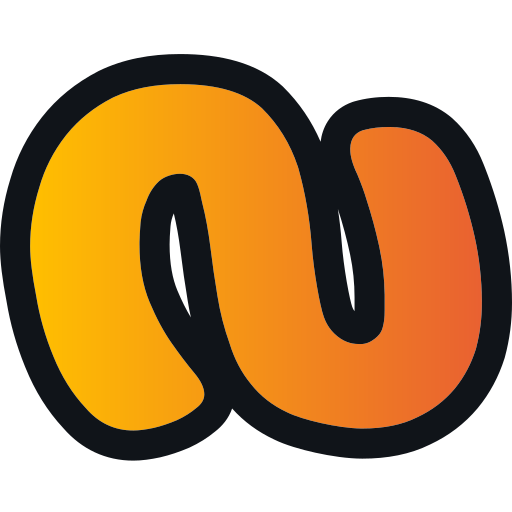
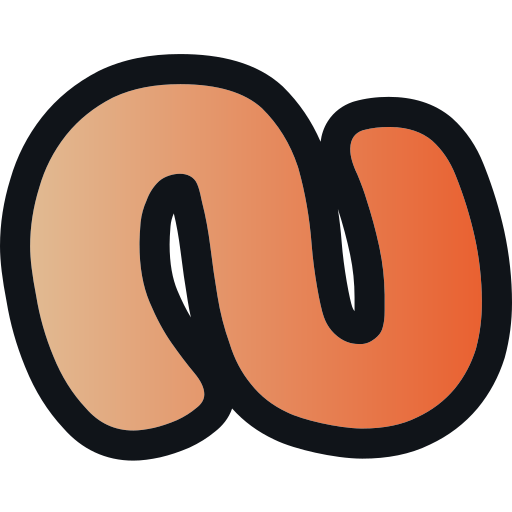
fix: refinements

diff --git a/src/styles/components/forms/search.css b/src/styles/components/forms/search.css
@@ -1,14 +1,8 @@
 search {
-  --search-rule: var(--color-divider);
-  --search-glyph: var(--color-glyph);
-  --search-interaction: var(--color-link);
-  --search-text: var(--color-text-0);
-  --search-placeholder: var(--color-text-2);
-
   display: flex;
   align-items: baseline;
   gap: var(--space-small);
-  border-bottom: var(--bw-default) solid var(--search-rule);
+  border-bottom: var(--bw-default) solid var(--color-divider);
   padding-bottom: var(--space-small);
   transition: border-color var(--duration-0) ease;
   width: 100%;
@@ -18,7 +12,7 @@ search .glyph {
   font-family: var(--monospace);
   font-variation-settings: var(--font-vars-code);
   font-weight: var(--fw-bold);
-  color: var(--search-glyph);
+  color: var(--color-accent);
   cursor: text;
   user-select: none;
 }
@@ -32,13 +26,13 @@ search input {
   font-family: var(--monospace);
   font-variation-settings: var(--font-vars-code);
   font-size: var(--size-small);
-  color: var(--search-text);
-  caret-color: var(--search-interaction);
+  color: var(--color-text-2);
+  caret-color: var(--color-accent);
   outline: none;
 }
 
 search input::placeholder {
-  color: var(--search-placeholder);
+  color: var(--color-text-2);
   opacity: 1;
 }
 
@@ -48,15 +42,15 @@ search input::-webkit-search-cancel-button {
 }
 
 search ::selection {
-  background: hsl(from var(--search-glyph) h s l / var(--opacity-light));
+  background: hsl(from var(--color-accent) h s l / var(--opacity-light));
 }
 
 search:hover {
-  border-color: color-mix(in oklab, var(--search-rule), var(--search-interaction) 45%);
+  border-color: color-mix(in oklab, var(--color-divider), var(--color-accent) 45%);
 }
 
 search:focus-within {
-  border-bottom-color: var(--search-interaction);
+  border-bottom-color: var(--color-accent);
 }
 
 search:has(input:focus-visible) {
@@ -65,7 +59,7 @@ search:has(input:focus-visible) {
 }
 
 search:active {
-  border-bottom-color: var(--search-interaction);
+  border-bottom-color: var(--color-accent);
 }
 
 search:has(input:disabled) {

diff --git a/src/styles/tokens/semantic.css b/src/styles/tokens/semantic.css
@@ -7,24 +7,24 @@
   --color-surface-1: light-dark(var(--p-neutral-1), var(--p-neutral-4));
   --color-surface-2: light-dark(var(--p-neutral-2), var(--p-neutral-3));
 
-  --color-accent: light-dark(var(--p-warm-2), var(--p-warm-0));
-  --color-link: light-dark(var(--p-warm-2), var(--p-warm-0));
+  --color-accent: light-dark(var(--p-orange-0), var(--p-sand-0));
+  --color-link: light-dark(var(--p-orange-0), var(--p-sand-0));
   --color-title: var(--color-text-0);
-  --color-interactive: light-dark(
-    color-mix(in oklab, var(--p-warm-0) 75%, var(--color-surface-0)),
-    color-mix(in oklab, var(--p-warm-2) 65%, var(--color-surface-0))
-  );
-  --color-button: light-dark(var(--p-warm-2), var(--p-warm-0));
-  --color-glyph: light-dark(var(--p-warm-2), var(--p-warm-0));
   --color-divider: var(--color-surface-2);
-  --color-canvas: light-dark(var(--p-warm-2), var(--p-warm-0));
+  --color-interactive: light-dark(
+    color-mix(in oklab, var(--p-sand-0) 75%, var(--p-orange-0)),
+    color-mix(in oklab, var(--p-orange-0) 65%, var(--color-surface-0))
+  );
+  --color-glyph: light-dark(var(--p-orange-0), var(--p-sand-0));
+  --color-disk: light-dark(var(--p-orange-0), var(--p-orange-0));
+  --color-canvas: light-dark(var(--p-orange-0), var(--p-yellow-0));
 
-  --color-code-inline: light-dark(var(--p-warm-3), var(--p-warm-0));
+  --color-code-inline: light-dark(color-mix(in oklab, var(--p-orange-0) 65%, var(--p-neutral-5)), var(--p-yellow-0));
   --color-code-default: var(--p-neutral-0);
   --color-code-muted: var(--p-neutral-2);
   --color-code-primary: var(--p-green-0);
-  --color-code-secondary: var(--p-warm-1);
-  --color-code-tertiary: var(--p-warm-2);
+  --color-code-secondary: var(--p-yellow-0);
+  --color-code-tertiary: var(--p-sand-0);
   --color-code-bg: var(--p-neutral-4);
 
   /** FONT-FAMILIES */

diff --git a/src/styles/tokens/primitives.css b/src/styles/tokens/primitives.css
@@ -9,12 +9,9 @@
 
   /** BRAND COLORS */
   --p-green-0: #55e3be;
-  --p-green-1: #25ac89;
-  --p-green-2: #1c756a;
-  --p-warm-0: #f3ad43;
-  --p-warm-1: #c0a572;
-  --p-warm-2: #e96131;
-  --p-warm-3: #d23245;
+  --p-yellow-0: #ffbf00;
+  --p-sand-0: #e1ba92;
+  --p-orange-0: #e96131;
 
   /** BREAKPOINTS (1.33 scale) */
   --p-bp-scale: 1.33;
